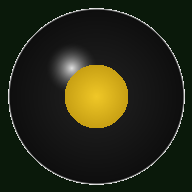
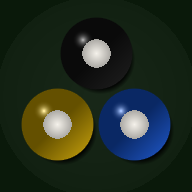
Add files via upload

diff --git a/index.html b/index.html
@@ -28,31 +28,32 @@
 </head>
 <body>
 <div id="splash" style="position:fixed;inset:0;background:radial-gradient(ellipse at 50% 40%,#1a4a1a,#0a1f0a);display:flex;flex-direction:column;align-items:center;justify-content:center;z-index:9999;transition:opacity 0.6s ease;">
-  <svg width="100" height="100" viewBox="0 0 100 100">
+  <svg width="130" height="130" viewBox="0 0 130 130">
     <defs>
-      <radialGradient id="bg" cx="38%" cy="32%" r="65%">
-        <stop offset="0%" stop-color="#2a2a2a"/>
-        <stop offset="100%" stop-color="#0a0a0a"/>
-      </radialGradient>
-      <radialGradient id="shine" cx="35%" cy="30%" r="50%">
-        <stop offset="0%" stop-color="rgba(255,255,255,0.9)"/>
-        <stop offset="100%" stop-color="rgba(255,255,255,0)"/>
-      </radialGradient>
-      <radialGradient id="gold" cx="40%" cy="35%" r="60%">
-        <stop offset="0%" stop-color="#f5d060"/>
-        <stop offset="100%" stop-color="#c9930a"/>
-      </radialGradient>
+      <radialGradient id="b8" cx="38%" cy="32%" r="65%"><stop offset="0%" stop-color="#444"/><stop offset="100%" stop-color="#0a0a0a"/></radialGradient>
+      <radialGradient id="b9" cx="38%" cy="32%" r="65%"><stop offset="0%" stop-color="#f5d060"/><stop offset="100%" stop-color="#b8820a"/></radialGradient>
+      <radialGradient id="b10" cx="38%" cy="32%" r="65%"><stop offset="0%" stop-color="#4a9af5"/><stop offset="100%" stop-color="#0a3a8a"/></radialGradient>
+      <radialGradient id="shine" cx="30%" cy="28%" r="45%"><stop offset="0%" stop-color="rgba(255,255,255,0.85)"/><stop offset="100%" stop-color="rgba(255,255,255,0)"/></radialGradient>
     </defs>
-    <circle cx="50" cy="52" r="45" fill="rgba(0,0,0,0.3)"/>
-    <circle cx="50" cy="50" r="45" fill="url(#bg)"/>
-    <circle cx="50" cy="50" r="45" fill="url(#shine)" opacity="0.15"/>
-    <circle cx="50" cy="50" r="20" fill="url(#gold)"/>
-    <text x="50" y="56" text-anchor="middle" font-size="18" font-weight="900" fill="#1a0a00" font-family="Georgia,serif">8</text>
-    <circle cx="32" cy="30" r="8" fill="rgba(255,255,255,0.12)"/>
+    <!-- Bola 8 arriba centro -->
+    <circle cx="65" cy="38" r="28" fill="url(#b8)"/>
+    <circle cx="65" cy="38" r="28" fill="url(#shine)" opacity="0.3"/>
+    <circle cx="65" cy="38" r="12" fill="white" opacity="0.92"/>
+    <text x="65" y="43" text-anchor="middle" font-size="13" font-weight="900" fill="#111" font-family="Arial,sans-serif">8</text>
+    <!-- Bola 9 abajo izq -->
+    <circle cx="38" cy="88" r="28" fill="url(#b9)"/>
+    <circle cx="38" cy="88" r="28" fill="url(#shine)" opacity="0.3"/>
+    <circle cx="38" cy="88" r="12" fill="white" opacity="0.92"/>
+    <text x="38" y="93" text-anchor="middle" font-size="13" font-weight="900" fill="#6a4a00" font-family="Arial,sans-serif">9</text>
+    <!-- Bola 10 abajo der -->
+    <circle cx="92" cy="88" r="28" fill="url(#b10)"/>
+    <circle cx="92" cy="88" r="28" fill="url(#shine)" opacity="0.3"/>
+    <circle cx="92" cy="88" r="12" fill="white" opacity="0.92"/>
+    <text x="92" y="93" text-anchor="middle" font-size="11" font-weight="900" fill="#fff" font-family="Arial,sans-serif">10</text>
   </svg>
-  <div style="margin-top:16px;font-size:11px;color:#c9a227;letter-spacing:5px;font-family:Georgia,serif;text-transform:uppercase;">Billares</div>
-  <div style="font-size:38px;font-weight:900;color:#fff;letter-spacing:3px;font-family:Georgia,serif;line-height:1;">García</div>
-  <div style="font-size:11px;color:#3a6a3a;letter-spacing:3px;font-family:Georgia,serif;margin-top:4px;">Control de partidas</div>
+  <div style="margin-top:18px;font-size:11px;color:#c9a227;letter-spacing:5px;font-family:Georgia,serif;text-transform:uppercase;">Billares</div>
+  <div style="font-size:40px;font-weight:900;color:#fff;letter-spacing:2px;font-family:Georgia,serif;line-height:1.1;">García</div>
+  <div style="font-size:11px;color:#3a6a3a;letter-spacing:3px;font-family:Georgia,serif;margin-top:6px;">Control de partidas</div>
   <div style="position:absolute;bottom:30px;font-size:10px;color:#2a4a2a;letter-spacing:2px;font-family:Georgia,serif;">Desarrollado por CGS</div>
 </div>
 <div id="root"></div>
@@ -597,13 +598,11 @@ function HistorialEditable({p1Name, p2Name, modalidad, carrera, seriesHistory, s
     <div style={{position:"fixed",inset:0,background:"rgba(0,0,0,0.85)",zIndex:100,display:"flex",alignItems:"flex-start",justifyContent:"center",overflowY:"auto",padding:"20px 10px"}}>
       <div style={{background:"#0f2010",border:"1px solid rgba(74,222,128,0.18)",borderRadius:20,padding:"20px 16px",color:"#fff",width:"100%",maxWidth:380}}>
         <div style={{display:"flex",alignItems:"center",justifyContent:"space-between",marginBottom:6}}>
-          <div style={{fontSize:15,fontWeight:700,color:"#e0e0e0"}}>Historial editable</div>
+          <div style={{fontSize:15,fontWeight:700,color:"#e0e0e0"}}>Historial</div>
           <div style={{fontSize:20,fontWeight:800,color:"#4ade80"}}>{d1} - {d2}</div>
         </div>
-        <div style={{fontSize:10,color:"#555",marginBottom:14}}>Toca una bola para cambiar el ganador</div>
-
         <div style={{fontSize:10,color:"#f9e04b",letterSpacing:1,textTransform:"uppercase",marginBottom:6}}>
-          Serie actual #{seriesCount} {seriesFinished?"- terminada":"- en juego"}
+          Última serie #{seriesCount} — {seriesFinished?"Concluida":"Inconclusa"}
         </div>
         {(games||[]).length===0
           ? <div style={{color:"#555",fontSize:12,marginBottom:12}}>Sin juegos registrados</div>
@@ -631,29 +630,24 @@ function HistorialEditable({p1Name, p2Name, modalidad, carrera, seriesHistory, s
                     <span style={{fontSize:12,color:"#f9e04b"}}>{s.winner==="p1"?p1Name:s.winner==="p2"?p2Name:"-"}</span>
                   </div>
                 </div>
-                {isLast&&<>
-                  <MiniGrid gamesData={fakeGames} isEditable={false}
-                    p1wins={s.winner==="p1"?1:0} p2wins={s.winner==="p2"?1:0}
-                    onToggle={(ji,k)=>onEditHistoryGame(i,ji,k,fakeGames)}/>
-                  {matchClosed && (
-                    <button onClick={onReactivar}
-                      style={{marginTop:8,width:"100%",padding:"10px 0",borderRadius:8,background:"linear-gradient(135deg,#166534,#4ade80)",border:"none",color:"#fff",fontFamily:"inherit",fontSize:13,fontWeight:800,cursor:"pointer"}}>
-                      &#9654; Reactivar partida
-                    </button>
-                  )}
-                  {!matchClosed && (
-                    <button onClick={onDeleteLastSeries}
-                      style={{marginTop:6,width:"100%",padding:"6px 0",borderRadius:8,background:"rgba(255,80,80,0.1)",border:"1px solid rgba(255,80,80,0.22)",color:"#f87171",fontFamily:"inherit",fontSize:11,cursor:"pointer"}}>
-                      Eliminar esta serie del historial
-                    </button>
-                  )}
-                </>}
+                {isLast && !matchClosed && (
+                  <button onClick={onDeleteLastSeries}
+                    style={{marginTop:6,width:"100%",padding:"6px 0",borderRadius:8,background:"rgba(255,80,80,0.1)",border:"1px solid rgba(255,80,80,0.22)",color:"#f87171",fontFamily:"inherit",fontSize:11,cursor:"pointer"}}>
+                    Eliminar esta serie del historial
+                  </button>
+                )}
               </div>
             );
           })}
         </>}
 
-        <button style={{marginTop:12,width:"100%",padding:"12px 0",borderRadius:12,background:"linear-gradient(135deg,#166534,#4ade80)",border:"none",color:"#fff",fontFamily:"inherit",fontSize:14,fontWeight:700,cursor:"pointer"}} onClick={onClose}>Cerrar</button>
+        {matchClosed && (
+          <button onClick={onReactivar}
+            style={{marginTop:8,width:"100%",padding:"12px 0",borderRadius:10,background:"linear-gradient(135deg,#166534,#4ade80)",border:"none",color:"#fff",fontFamily:"inherit",fontSize:14,fontWeight:800,cursor:"pointer"}}>
+            &#9654; Reactivar partida
+          </button>
+        )}
+        <button style={{marginTop:8,width:"100%",padding:"12px 0",borderRadius:12,background:"rgba(255,255,255,0.07)",border:"1px solid rgba(255,255,255,0.12)",color:"#ccc",fontFamily:"inherit",fontSize:14,fontWeight:700,cursor:"pointer"}} onClick={onClose}>Cerrar</button>
       </div>
     </div>
   );

diff --git a/sw.js b/sw.js
@@ -1,4 +1,4 @@
-const CACHE = 'billares-v16';
+const CACHE = 'billares-v18';
 const FILES = ['/', '/index.html', '/manifest.json', '/icon-192.png', '/icon-512.png'];
 self.addEventListener('install', e => { self.skipWaiting(); e.waitUntil(caches.open(CACHE).then(c => c.addAll(FILES))); });
 self.addEventListener('activate', e => { e.waitUntil(caches.keys().then(keys => Promise.all(keys.filter(k => k !== CACHE).map(k => caches.delete(k))))); self.clients.claim(); });
